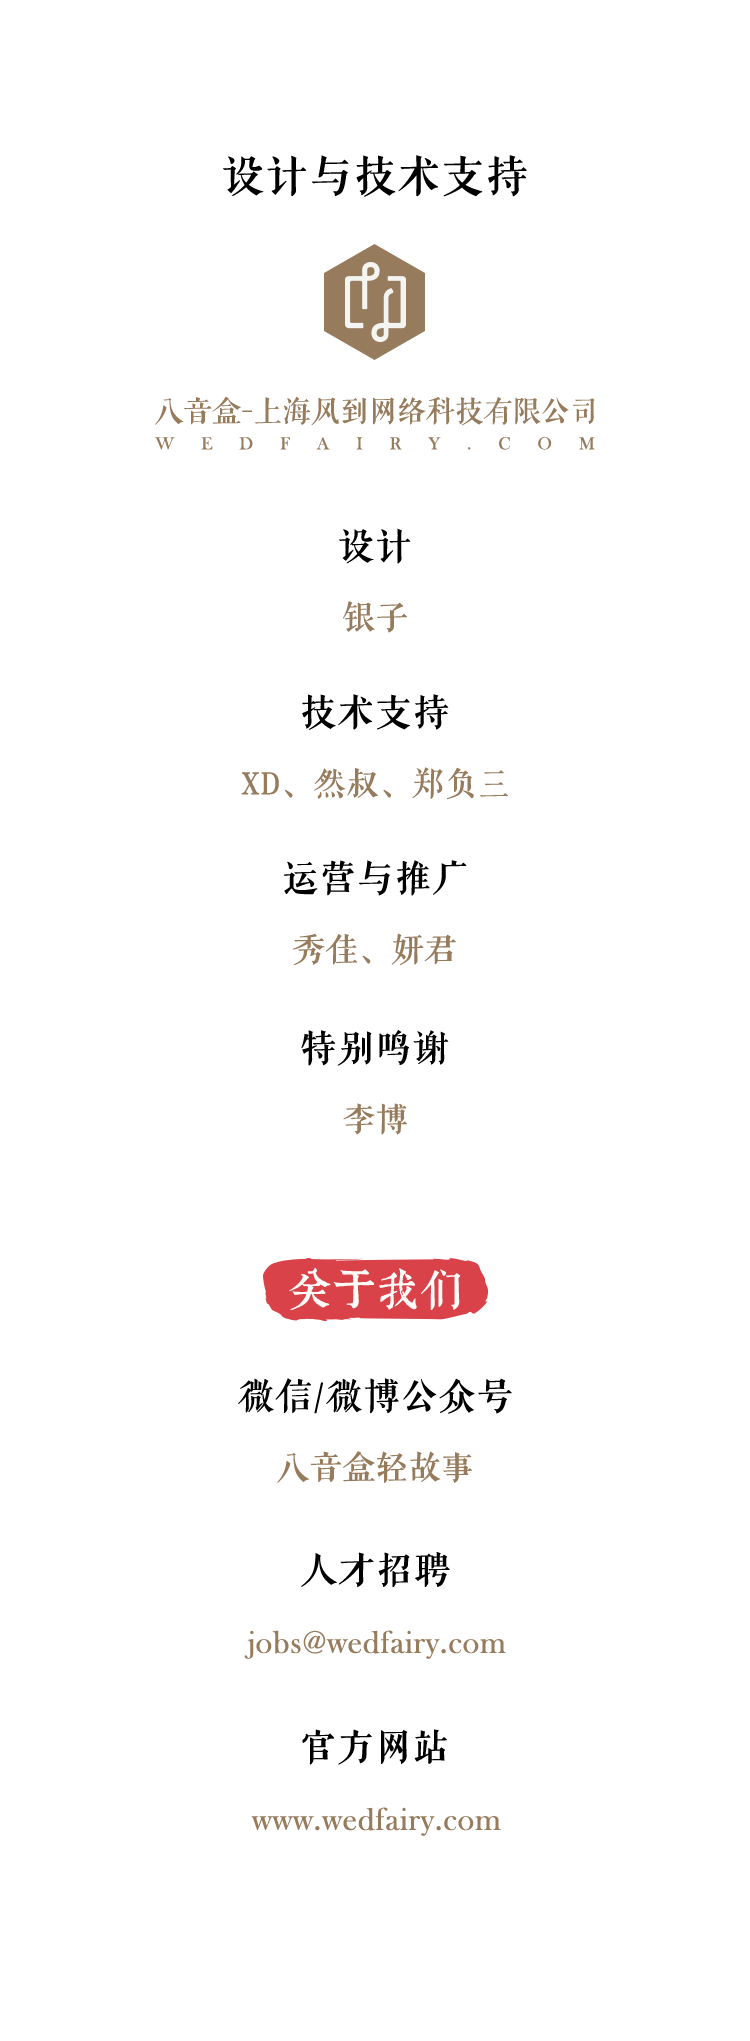
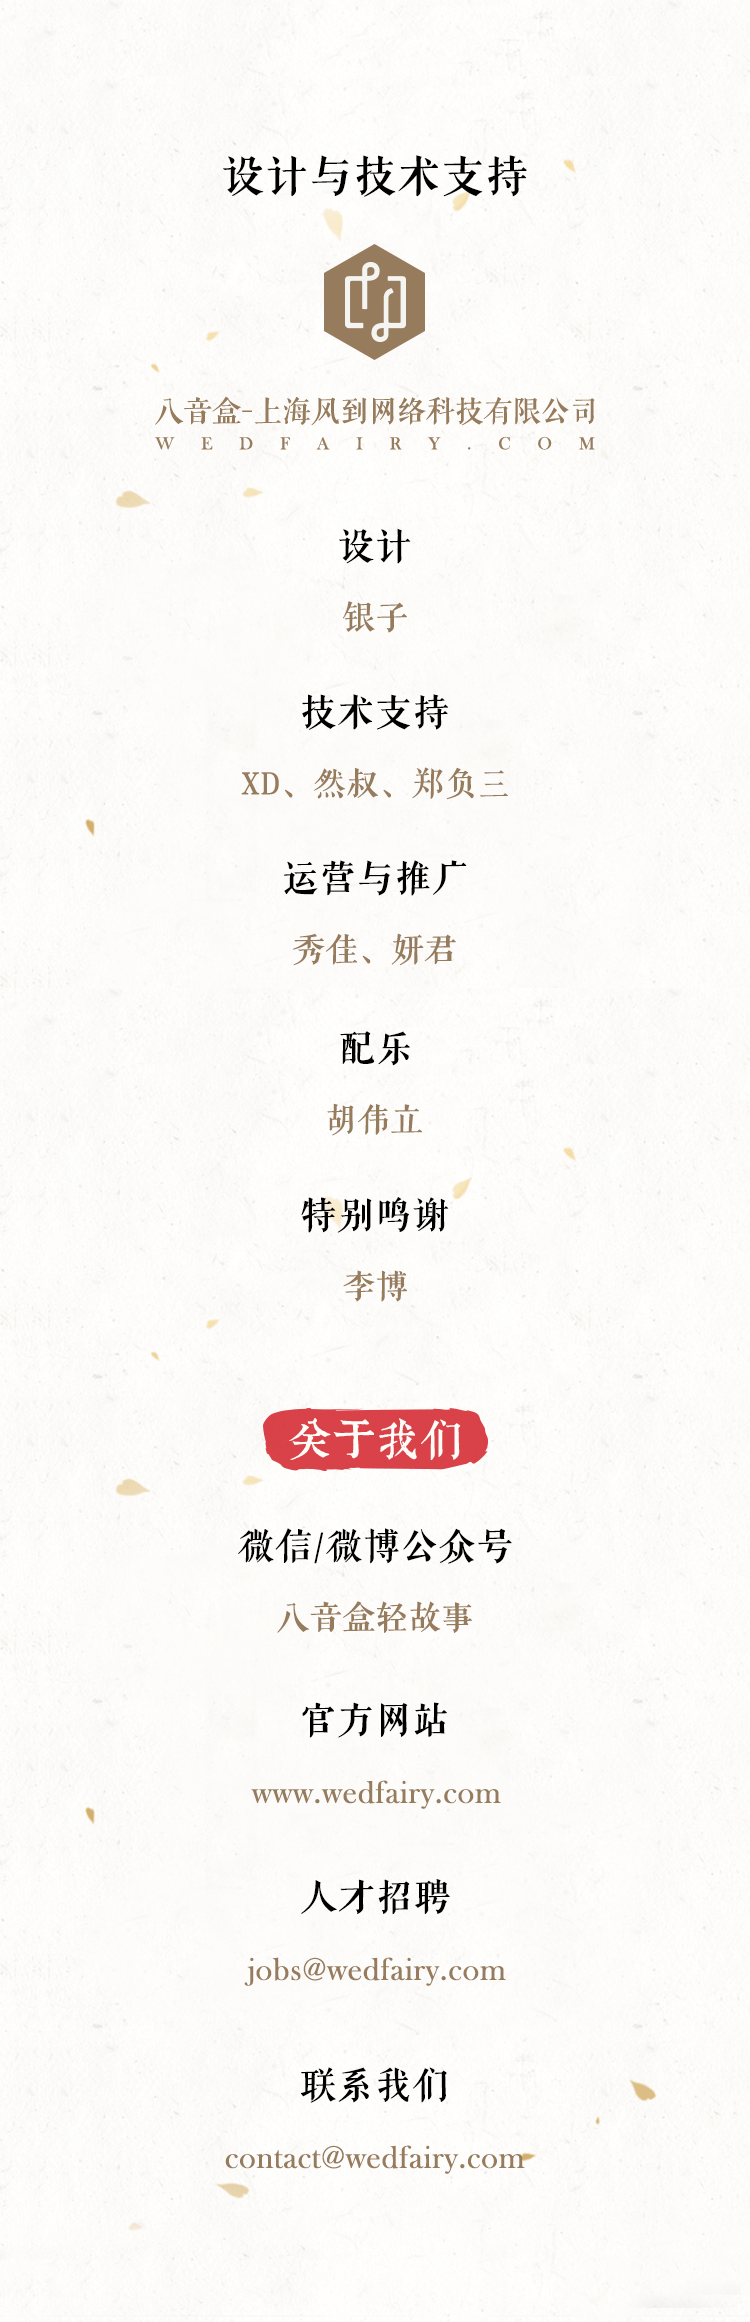
change aboutus

diff --git a/assets/stylesheets/greeting/views/_about.scss b/assets/stylesheets/greeting/views/_about.scss
@@ -4,6 +4,6 @@
         background-repeat: repeat;
     }
     .about {
-        height: 1000px;
+        height: 1140px;
     }
 }
